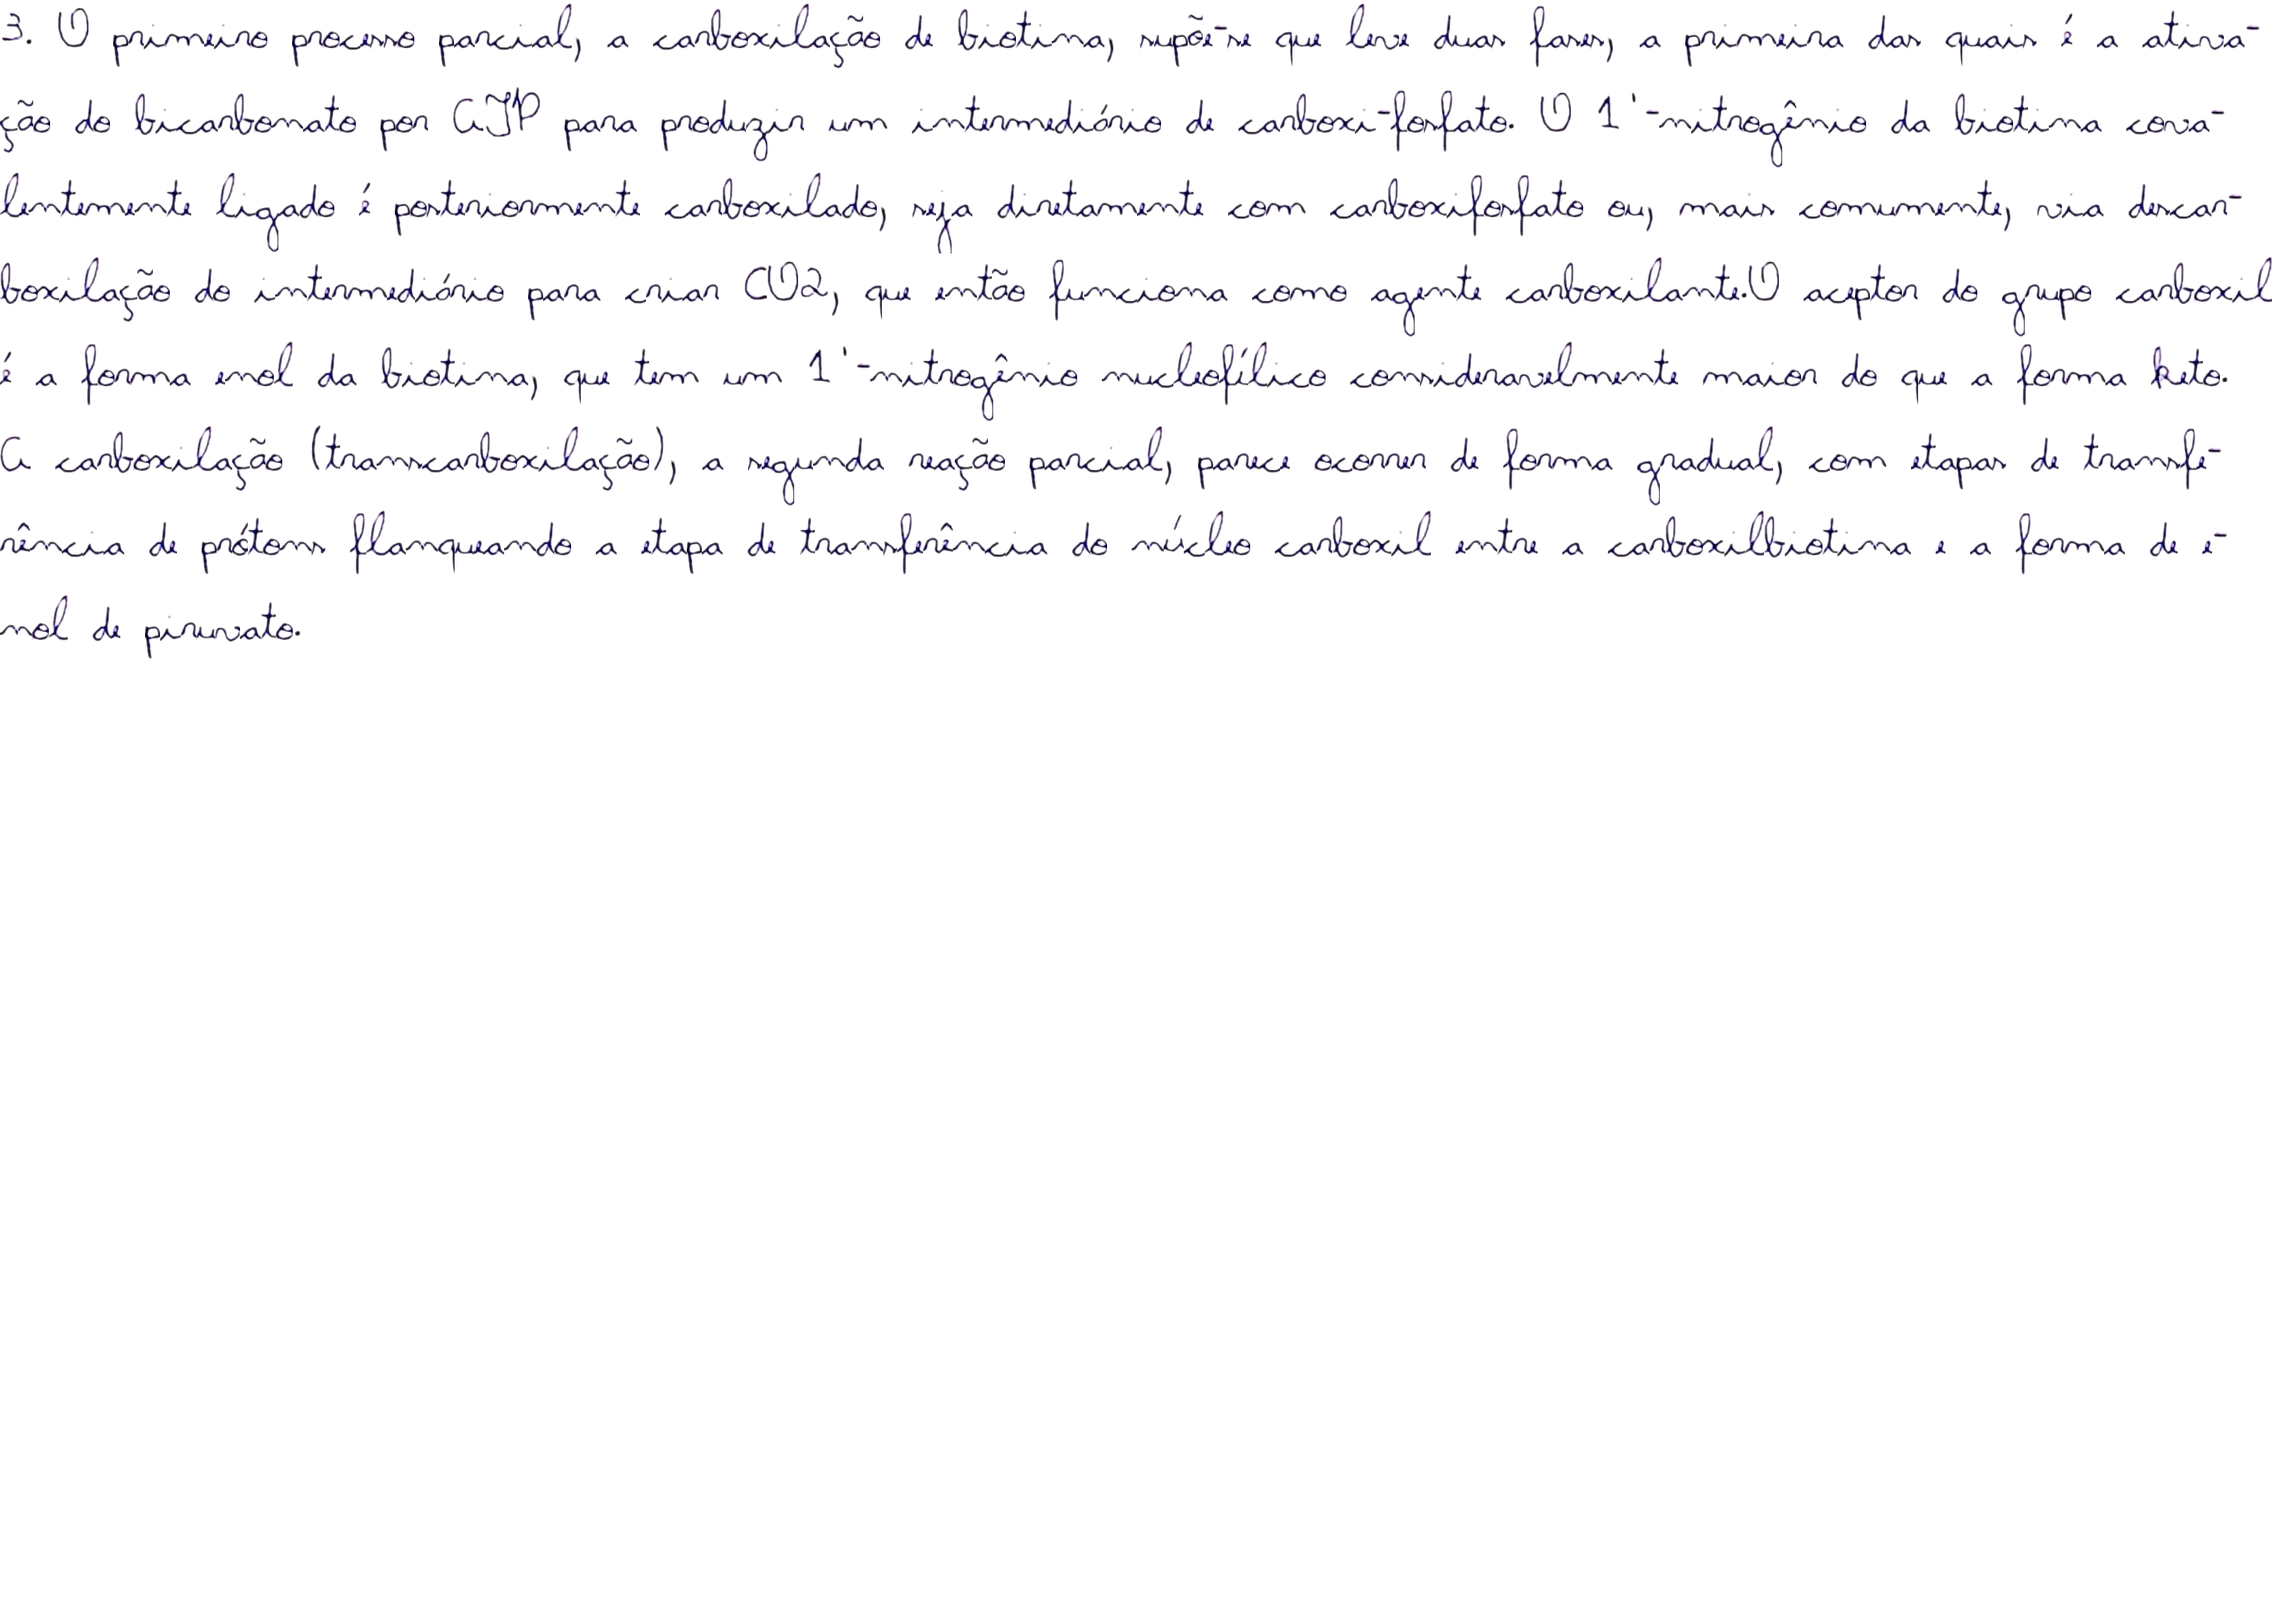
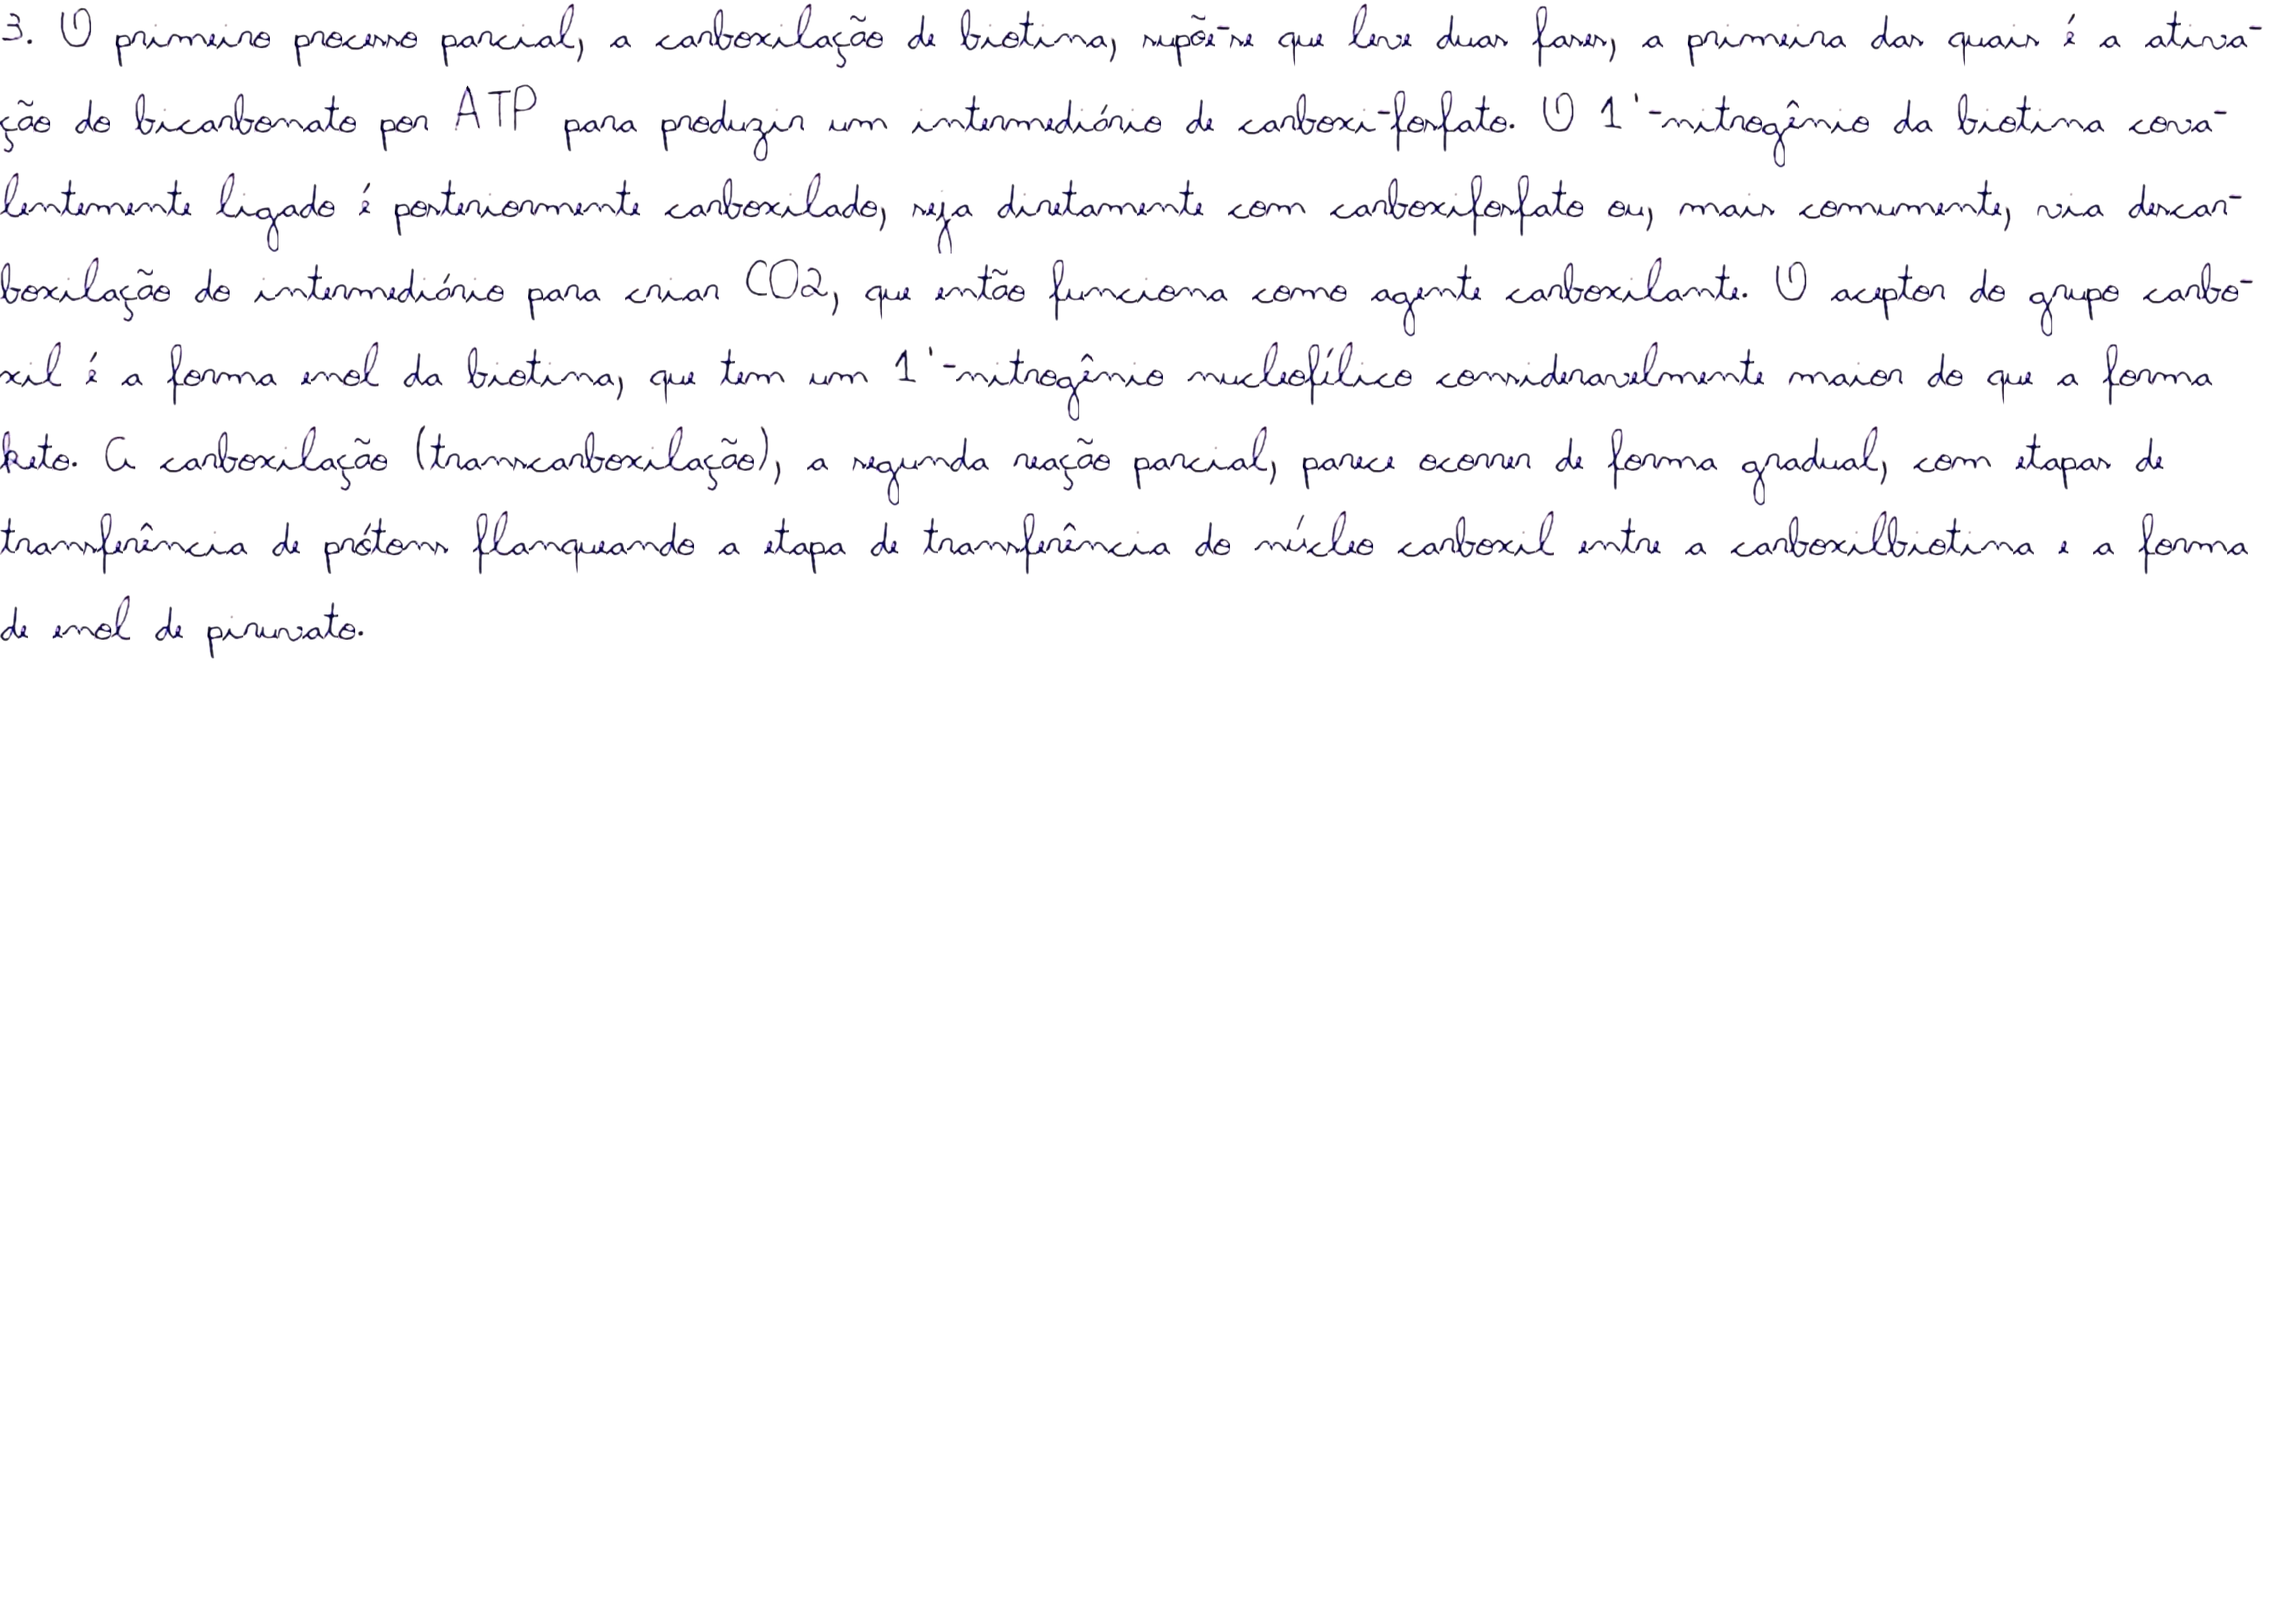
AAAAAAAA

diff --git a/converttxt.py b/converttxt.py
@@ -1,5 +1,20 @@
-import unicodedata
-import re
+import packages
+
+try:
+  import unicodedata
+  import re
+  import os
+  from unidecode import unidecode
+  from PIL import Image#Open the text file which you have to convert into handwriting
+  import cv2
+  import numpy as np
+except:
+  packages.run()
+
+import removebg
+import measureletters
+removebg.run()
+measureletters.run()
 
 def slugify(value, allow_unicode=False):
     """
@@ -17,19 +32,23 @@ def slugify(value, allow_unicode=False):
     value = re.sub(r'[^\w\s-]', '', value.lower())
     return re.sub(r'[-\s]+', '-', value).strip('-_')
 
-import os
-import removebg
-import measureletters
-import packages
-
-packages.run()
-removebg.run()
-measureletters.run()
+def writeletter(letter,upperl,gap,ht):
+  try:
+    if upperl and letter in 'ABCDEFGHIJKLMNOPQRSTUVWXYZ':
+      filename="sem fundo/upper{}.png".format(str(ord(letter)))
+    else:
+      filename="sem fundo/{}.png".format(str(ord(letter)))
+    cases = Image.open(filename)
+  except:
+    print("\n42 MISSING")
+    print(letter,str(ord(letter)),filename)
+    quit()
+  else:
+    BG.paste(cases, (gap, ht))
 
 with open("sizeletters.txt",'r') as arquivo:
     sizeletters=eval(arquivo.read())
 
-from unidecode import unidecode
 def sylsplit(word):
     #print(word)
     vogals='aãáàâeéèêiíìîoóòõôuAÁÀÃÂEÉÈÊIÍÌÎOÓÒÕÔU'
@@ -73,9 +92,10 @@ def sylsplit(word):
     #print(syllables)
     return syllables
 
-#Importing Library
-from PIL import Image#Open the text file which you have to convert into handwriting
-txt="3. O primeiro processo parcial, a carboxilação de biotina, supõe-se que leve duas fases, a primeira das quais é a ativação do bicarbonato por ATP para produzir um intermediário de carboxi-fosfato. O 1'-nitrogênio da biotina covalentemente ligado é posteriormente carboxilado, seja diretamente com carboxifosfato ou, mais comumente, via descarboxilação do intermediário para criar CO2, que então funciona como agente carboxilante.O aceptor do grupo carboxil é a forma enol da biotina, que tem um 1'-nitrogênio nucleofílico consideravelmente maior do que a forma keto. A carboxilação (transcarboxilação), a segunda reação parcial, parece ocorrer de forma gradual, com etapas de transferência de prótons flanqueando a etapa de transferência do núcleo carboxil entre a carboxilbiotina e a forma de enol de piruvato."# path of your text file#path of page(background)photo (I have used blank page)
+txt="3. O primeiro processo parcial, a carboxilação de biotina, supõe-se que leve duas fases, a primeira das quais é a ativação do bicarbonato por ATP para produzir um intermediário de carboxi-fosfato. O 1'-nitrogênio da biotina covalentemente ligado é posteriormente carboxilado, seja diretamente com carboxifosfato ou, mais comumente, via descarboxilação do intermediário para criar CO2, que então funciona como agente carboxilante. O aceptor do grupo carboxil é a forma enol da biotina, que tem um 1'-nitrogênio nucleofílico consideravelmente maior do que a forma keto. A carboxilação (transcarboxilação), a segunda reação parcial, parece ocorrer de forma gradual, com etapas de transferência de prótons flanqueando a etapa de transferência do núcleo carboxil entre a carboxilbiotina e a forma de enol de piruvato."# path of your text file#path of page(background)photo (I have used blank page)
+txt=txt.replace('.','. ')
+txt=txt.replace('  ',' ')
+from PIL import Image
 BG=Image.open("bg.png") 
 sizehyp=sizeletters["{}.png".format(str(ord('-')))]
 sheet_width=BG.width
@@ -83,9 +103,9 @@ gap, ht = 0, 0
 end=False
 last=''
 for word in txt.split():
-    upper=False
-    if word==word.upper():
-      upper=True
+    upperl=False
+    if word==word.upper() and len(word)>1:
+      upperl=True
     if '-' in word:
         ws=[]
         words=word.split('-')
@@ -105,7 +125,7 @@ for word in txt.split():
             try:
                 sizeletters["{}.png".format(str(ord(letter)))]
             except:
-                print("\nMISSING 103")
+                print("\n 125 MISSING")
                 print(letter,str(ord(letter)))
                 quit()
             else:
@@ -120,69 +140,29 @@ for word in txt.split():
                 try:
                     cases = Image.open("sem fundo/{}.png".format(str(ord('-'))))
                 except:
-                    print("\nMISSING 109")
+                    print("\n 140 MISSING")
                     print(letter,str(ord(letter)))
                     quit()
                 else:
                     BG.paste(cases, (gap, ht))
-                    size = cases.width
-                    height=cases.height
                     last='hypen'
-                    gap+=size-2
+                    gap+=sizeletters['{}.png'.format(str(ord('-')))]-2
             gap,ht=0,ht+130
             if gap==0 and last=='-':
-                try:
-                    cases = Image.open("sem fundo/{}.png".format(str(ord('-'))))
-                except:
-                    print("\nMISSING 123")
-                    print(letter,str(ord(letter)))
-                    quit()
-                else:
-                    BG.paste(cases, (gap, ht))
-                    size = cases.width
-                    height=cases.height
-                    last='-'
-                    gap+=size-2
+              writeletter('-',False)
+              last=letter
             for letter in syl:
-                try:
-                    cases = Image.open("sem fundo/{}.png".format(str(ord(letter))))
-                except:
-                    print("\nMISSING 136")
-                    print(letter,str(ord(letter)))
-                    quit()
-                else:
-                    BG.paste(cases, (gap, ht))
-                    size = cases.width
-                    height=cases.height
-                    last=letter
-                    gap+=size-2 
+              writeletter(letter,upperl,gap,ht)
+              last=letter
+              gap+=sizeletters['{}.png'.format(str(ord(letter)))]-2
         else:
             for letter in syl:
-                try:
-                    cases = Image.open("sem fundo/{}.png".format(str(ord(letter))))
-                except:
-                    print("\nMISSING 150")
-                    print(letter,str(ord(letter)))
-                    quit()
-                else:
-                    BG.paste(cases, (gap, ht))
-                    size = cases.width
-                    height=cases.height
-                    #print(size)
-                    gap+=size-2
-                    last=letter
+              writeletter(letter,upperl,gap,ht)
+              last=letter
+              gap+=sizeletters['{}.png'.format(str(ord(letter)))]-2
     end=True
-    try:
-        cases = Image.open("sem fundo/{}.png".format(str(ord(' '))))
-    except:
-        print("\nMISSING 164")
-        print(' ',str(ord(' ')))
-        quit()
-    else:
-        BG.paste(cases, (gap, ht))
-        size = cases.width
-        height=cases.height
-        last=' '
-        gap+=size-2
+    writeletter(' ',False,gap,ht)
+    last=' '
+    gap+=sizeletters['{}.png'.format(str(ord(' ')))]-2
 BG.show()
 BG.save("{}.png".format(slugify(' '.join(txt.split(' ')[0:6]))))

diff --git a/removebg.py b/removebg.py
@@ -1,14 +1,18 @@
 def run():
+    print("\nRemoving background from letters...")
     import cv2
     import numpy as np
     import os
 
+    directory='newfont'
     # #load image
-    for i in range(300):
+    for filename in os.listdir(directory):
         if os.path.isdir("newfont"):
             os.chdir("newfont")
-        if os.path.isfile('{}.png'.format(i)):
-            img = cv2.imread('{}.png'.format(i))
+        if os.path.isdir("newfont"):
+            os.chdir("newfont")
+        if os.path.isfile(filename):
+            img = cv2.imread(filename)
 
     # if True:
     #     filename='CamScanner 04-02-2022 16.19'
@@ -43,8 +47,10 @@ def run():
 
             #save resulting masked image
             os.chdir("..")
+            if not os.path.isdir("sem fundo"):
+              os.mkdir("sem fundo")
             os.chdir("sem fundo")
-            cv2.imwrite('{}.png'.format(i), result)
+            cv2.imwrite(filename.replace('jpg','png'), result)
             #cv2.imwrite('{}.png'.format(filename), result)
             os.chdir("..")
 

diff --git a/measureletters.py b/measureletters.py
@@ -1,9 +1,11 @@
 def run():
+    print("\nMeasuring the size of the letter's image...")
     from PIL import Image
     # import required module
     import os
     # assign directory
-    os.chdir('..')
+    #os.chdir('..')
+    #print(os.listdir(os.getcwd()))
     directory = 'sem fundo'
     sizes=dict()
     
